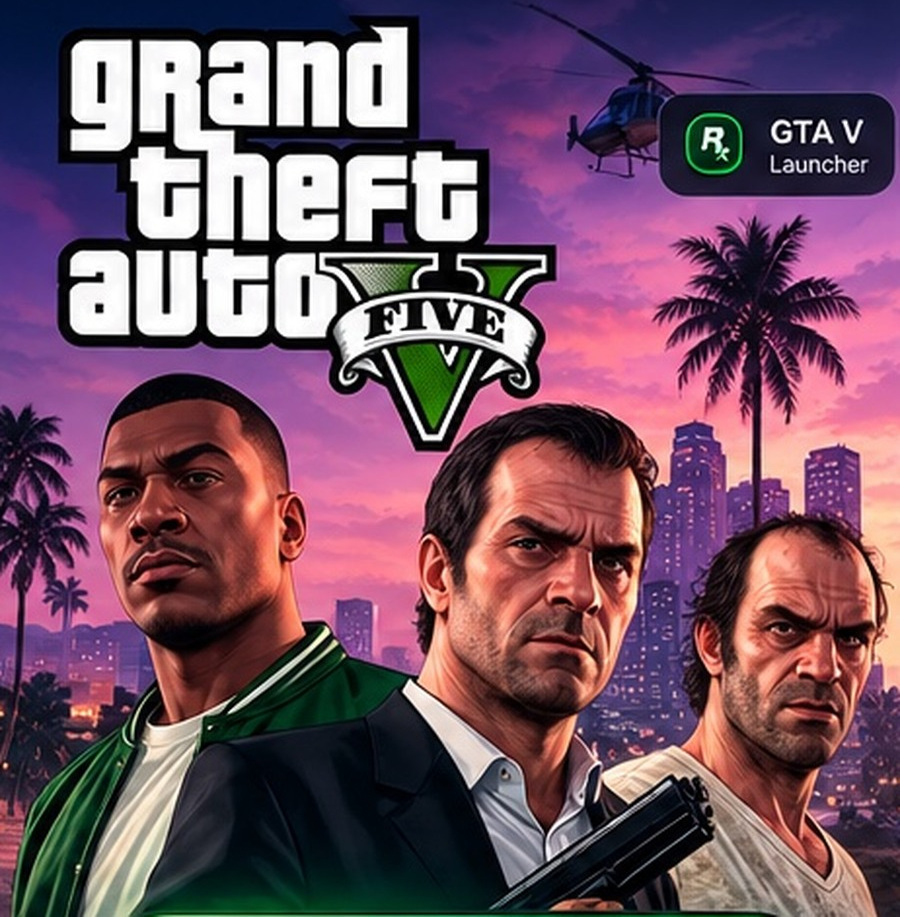
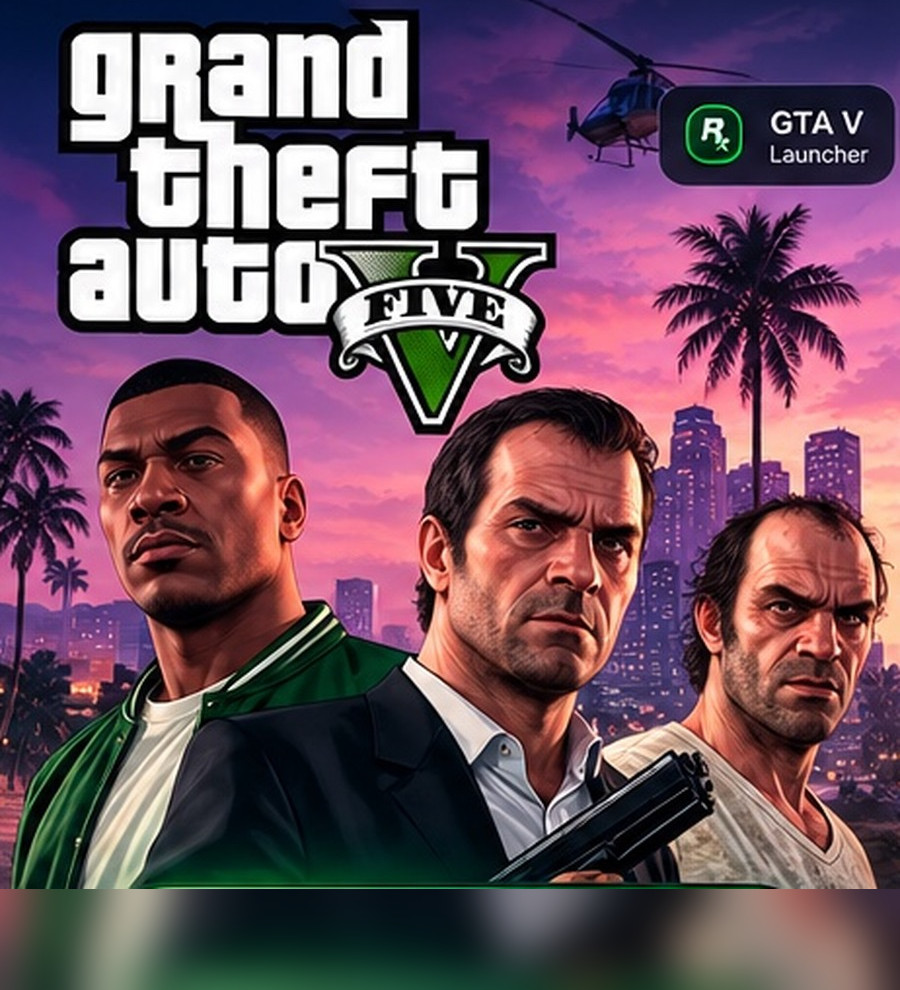
feat(ios): screenshot-accurate hero action, clean GTA V artwork, verify all five tabs on simulator

diff --git a/ios/Sources/UI/GTAFiveTabLauncher.swift b/ios/Sources/UI/GTAFiveTabLauncher.swift
@@ -143,6 +143,9 @@ final class GTAFiveTabController: UITabBarController {
         tabBar.tintColor = GTAReference.green
         tabBar.unselectedItemTintColor = GTAReference.secondary
         tabBar.isTranslucent = false
+        #if targetEnvironment(simulator)
+        chooseSnapshotTab()
+        #endif
     }
     override var supportedInterfaceOrientations: UIInterfaceOrientationMask {
         if let nav = selectedViewController as? UINavigationController,
@@ -155,6 +158,16 @@ final class GTAFiveTabController: UITabBarController {
         return .portrait
     }
     func select(_ index: Int) { selectedIndex = index }
+    #if targetEnvironment(simulator)
+    private func chooseSnapshotTab() {
+        // Only used by GitHub simulator screenshots. No status values are mocked.
+        let arguments = ProcessInfo.processInfo.arguments
+        if arguments.contains("--snapshot-library") { selectedIndex = 1 }
+        if arguments.contains("--snapshot-graphics") { selectedIndex = 2 }
+        if arguments.contains("--snapshot-controls") { selectedIndex = 3 }
+        if arguments.contains("--snapshot-more") { selectedIndex = 4 }
+    }
+    #endif
 }
 extension GTAFiveTabController: UITabBarControllerDelegate {}
 
@@ -208,13 +221,35 @@ final class GTAReferenceHomeController: GTAReferencePage {
     private let readiness = GTAReference.label("", size: 11, weight: .medium, color: GTAReference.secondary)
     override func viewDidLoad() {
         super.viewDidLoad()
-        installHero("gtaios-reference-home", height: 370)
+        // Reference-matched full-bleed GTA V artwork with a real, state-driven action.
+        let hero = UIView()
+        hero.clipsToBounds = true
+        hero.layer.cornerRadius = 17
+        hero.layer.cornerCurve = .continuous
+        hero.translatesAutoresizingMaskIntoConstraints = false
+        hero.heightAnchor.constraint(equalToConstant: 370).isActive = true
+        let art = GTAReference.image("gtaios-reference-home", height: 370, radius: 0)
+        hero.addSubview(art)
+        NSLayoutConstraint.activate([
+            art.leadingAnchor.constraint(equalTo: hero.leadingAnchor),
+            art.trailingAnchor.constraint(equalTo: hero.trailingAnchor),
+            art.topAnchor.constraint(equalTo: hero.topAnchor),
+            art.bottomAnchor.constraint(equalTo: hero.bottomAnchor)
+        ])
         play.titleLabel?.font = .systemFont(ofSize: 19, weight: .bold)
-        play.heightAnchor.constraint(equalToConstant: 63).isActive = true
         play.layer.borderWidth = 1
-        play.layer.borderColor = GTAReference.green.withAlphaComponent(0.8).cgColor
+        play.layer.borderColor = GTAReference.green.withAlphaComponent(0.9).cgColor
+        play.layer.cornerRadius = 19
         play.addTarget(self, action: #selector(playPressed), for: .touchUpInside)
-        stack.addArrangedSubview(play)
+        play.translatesAutoresizingMaskIntoConstraints = false
+        hero.addSubview(play)
+        NSLayoutConstraint.activate([
+            play.leadingAnchor.constraint(equalTo: hero.leadingAnchor, constant: 19),
+            play.trailingAnchor.constraint(equalTo: hero.trailingAnchor, constant: -19),
+            play.bottomAnchor.constraint(equalTo: hero.bottomAnchor, constant: -14),
+            play.heightAnchor.constraint(equalToConstant: 63)
+        ])
+        stack.addArrangedSubview(hero)
         readiness.textAlignment = .center
         stack.addArrangedSubview(readiness)
         let actions = UIStackView()

diff --git a/ios/Scripts/verify_native_runtime.py b/ios/Scripts/verify_native_runtime.py
@@ -117,6 +117,10 @@ assert "EngineOptions.set" in reference and "EngineOptions.value" in reference
 assert "LogStore.shared.exportURL()" in reference
 assert "NativeEngineStatus.nativeEngineLinked" in reference
 assert '"gtaios-reference-home"' in reference
+assert 'hero.addSubview(play)' in reference and 'play.bottomAnchor.constraint(equalTo: hero.bottomAnchor' in reference
+assert all(("\"" + name + "\"") in reference for name in ("Home", "Library", "Graphics", "Controls", "More"))
+assert '"--snapshot-library"' in reference and '"--snapshot-graphics"' in reference
+assert 'iphone-library.png' in workflow and 'iphone-graphics.png' in workflow
 assert '"gtaios-library-skyline"' in reference
 assert '"gtaios-settings-hero"' in reference
 assert "GTATheme.section" in read("ios/Sources/UI/SettingsViewController.swift")
@@ -244,7 +248,7 @@ assert 'generate_wasmtime_conf.py' in workflow
 assert 'conf.h.in' in workflow
 assert 'xcrun nm "' in ipa
 assert '_gta_ios_wasmtime_aot_probe' in ipa
-assert "<key>CFBundleVersion</key><string>35</string>" in plist
+assert "<key>CFBundleVersion</key><string>36</string>" in plist
 assert '<key>CFBundleIconName</key><string>AppIcon</string>' in plist
 assert "ASSETCATALOG_COMPILER_APPICON_NAME: AppIcon" in project
 assert "GTA V iOS icon metadata and compiled Assets.car: PASS" in ipa
